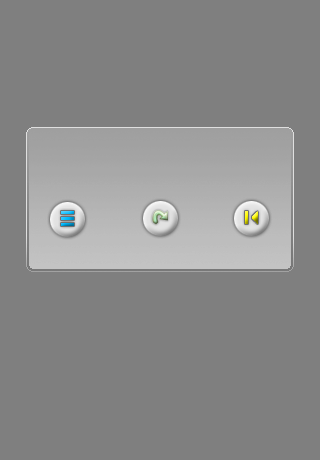
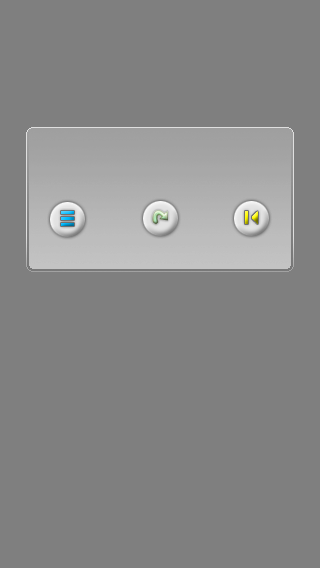
fixed summary screen

Changed region(s): [[0.0625, 0.3348, 0.9375, 0.6087], [0.0625, 0.213, 0.9375, 0.3043]]

diff --git a/Classes/CompletionSummary.m b/Classes/CompletionSummary.m
@@ -20,7 +20,7 @@
 		
 		/* Background */
 		backgnd = [[UIImageView alloc] initWithImage:[UIImage imageNamed:@"popup_box.png"]];
-		backgnd.frame = CGRectMake(0, 0, self.frame.size.width, self.frame.size.height);
+		backgnd.frame = CGRectMake(0, 0, self.frame.size.width, 568);//self.frame.size.height);
 		[self addSubview:backgnd];
 		[backgnd release];
 		
